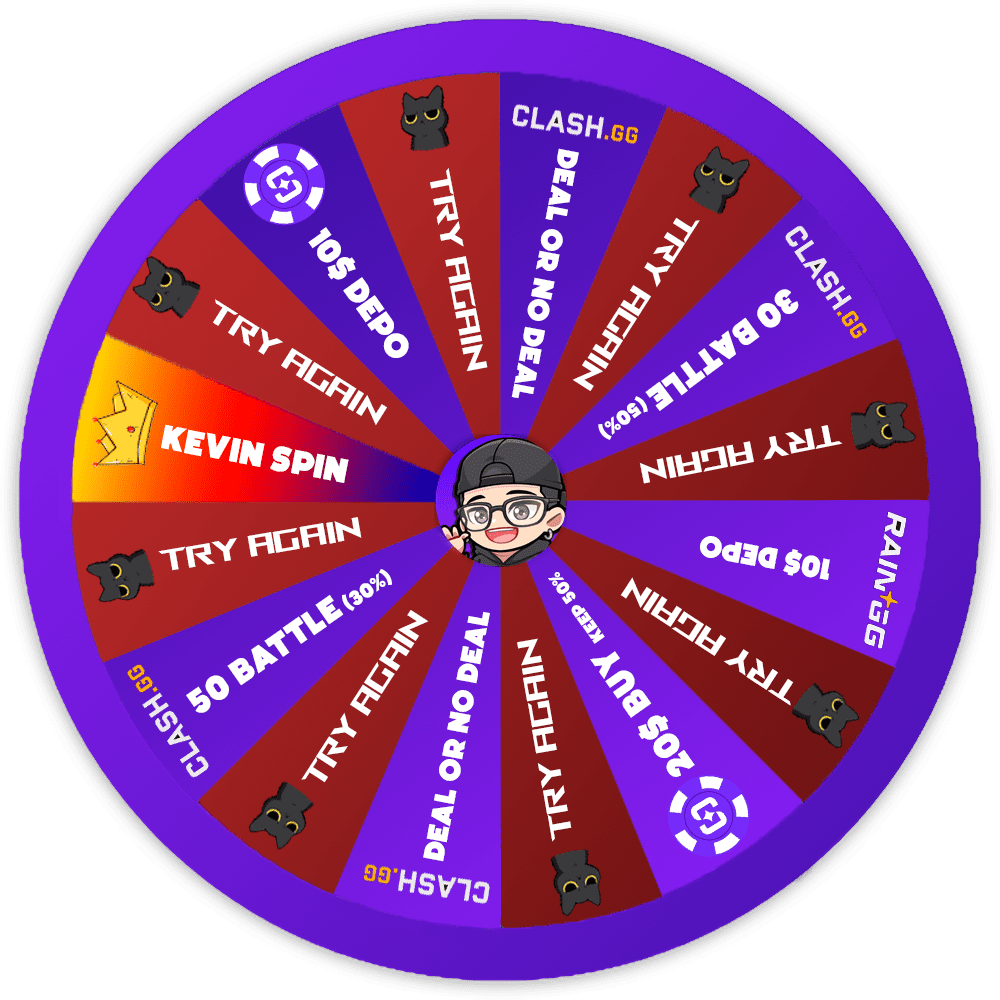
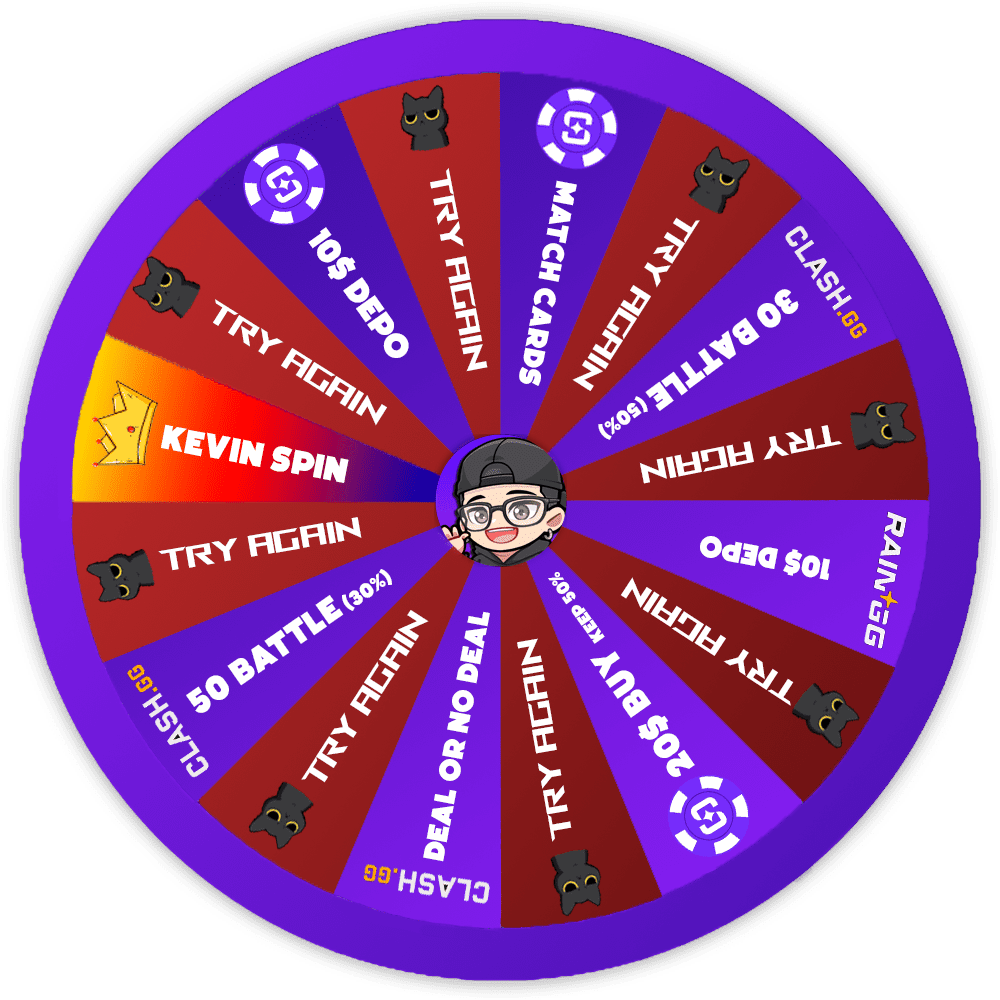
update wheel

diff --git a/src/scripts/script.js b/src/scripts/script.js
@@ -43,7 +43,7 @@
       { name: 'Try Again', startDeg: 270.01, endDeg: 292.49 },
       { name: 'Clash 30 Battle 30%', startDeg: 292.5, endDeg: 315 },
       { name: 'Try Again', startDeg: 315.01, endDeg: 337.49 },
-      { name: 'Deal Or No Deal - Clash', startDeg: 337.5, endDeg: 360 },
+      { name: 'Match The Cards - Shuffle', startDeg: 337.5, endDeg: 360 },
     ];
 
     for (const area of areas) {
